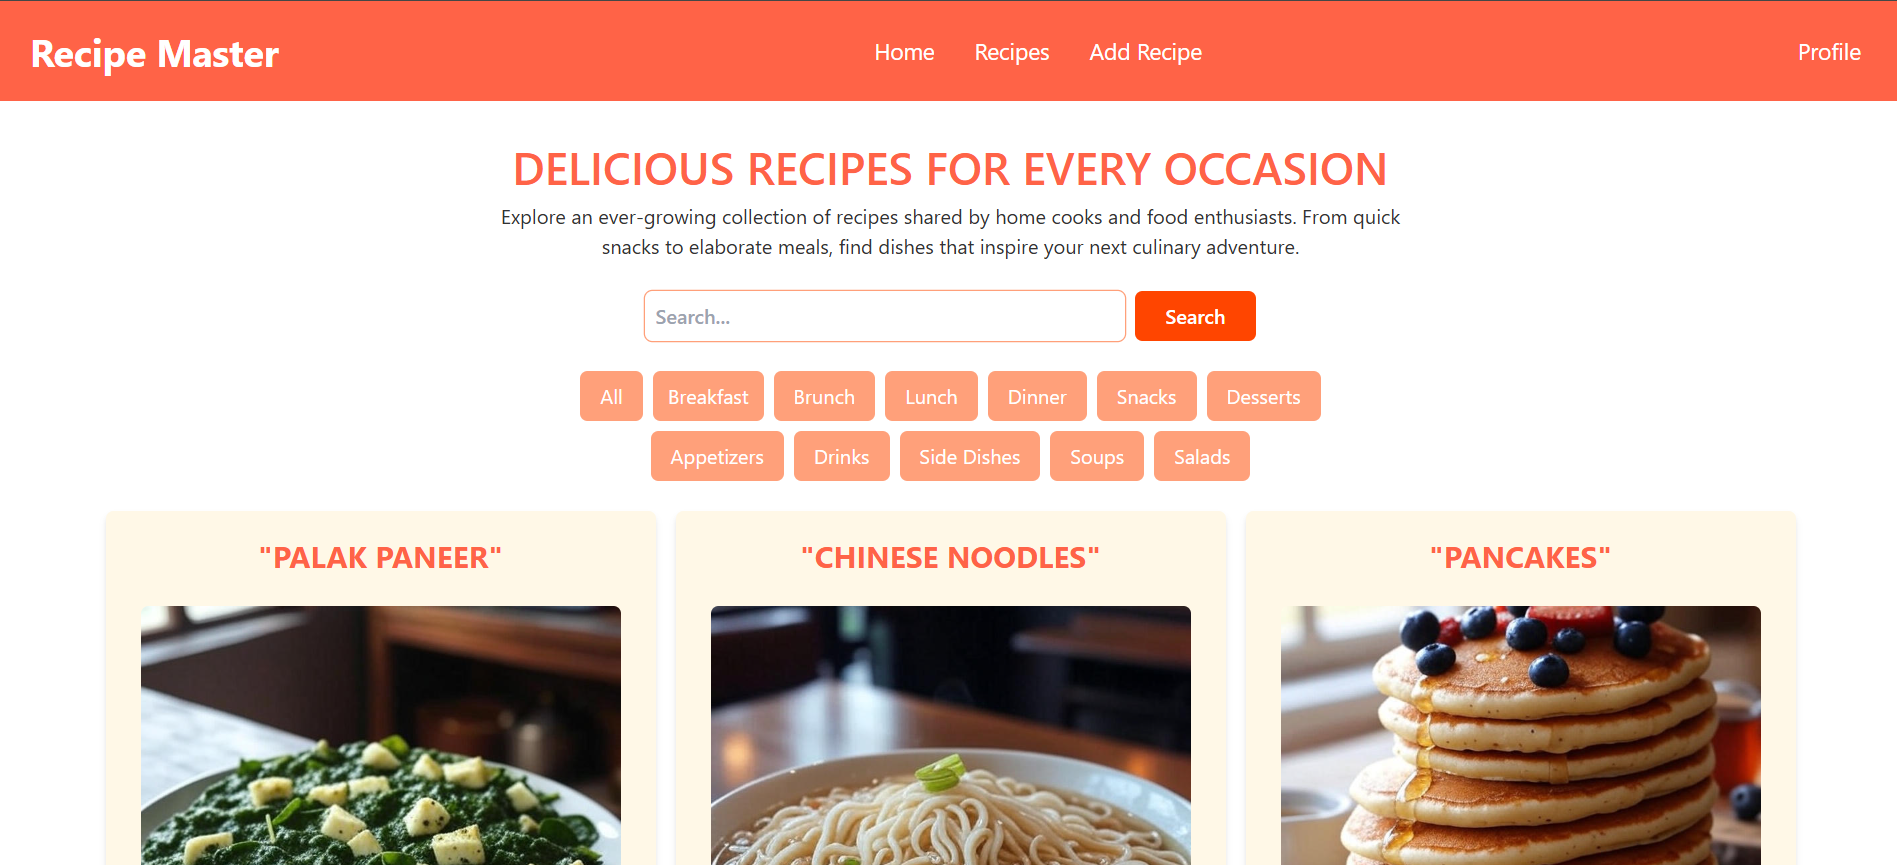
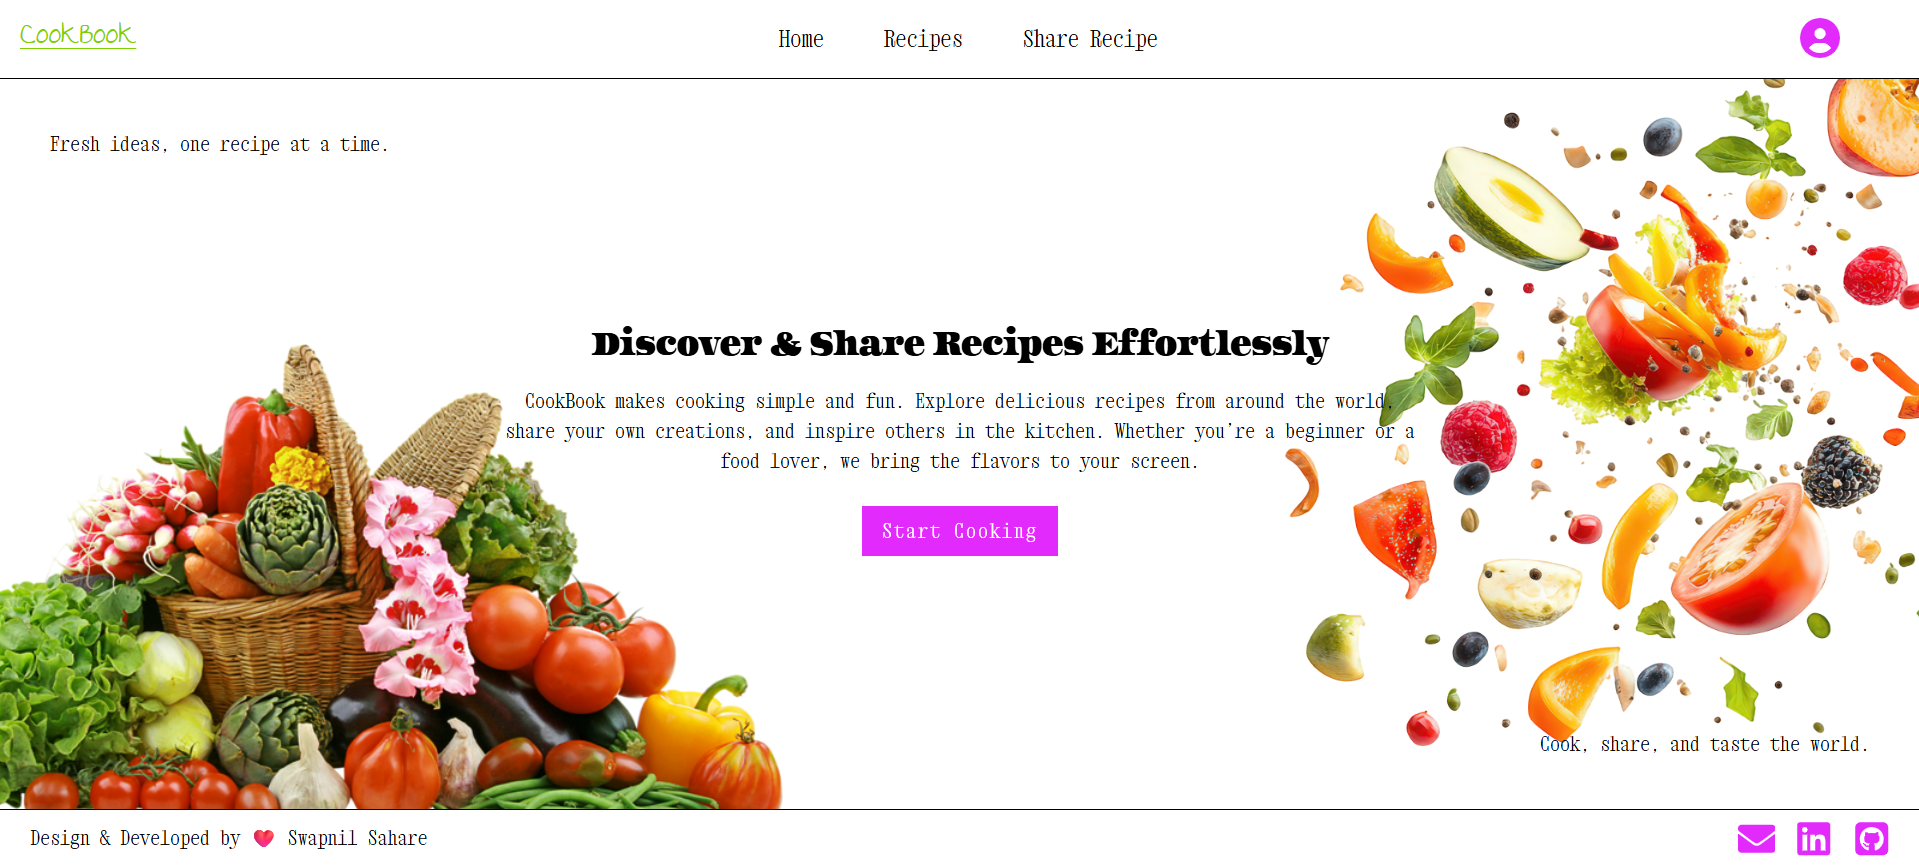
Update project name, image and features

diff --git a/src/pages/Projects.jsx b/src/pages/Projects.jsx
@@ -15,7 +15,8 @@ const Projects = () => {
         "A MERN stack web app for buying, selling, and bidding on artworks in auctions. Includes theme mode support and modern UI with Tailwind CSS.",
       tech: "MongoDB, Express.js, React.js, Node.js, Tailwind CSS, Nodemailer",
       features: [
-        "User authentication with OTP verification.",
+        "Role based user authentication with OTP verification.",
+        "Admin dashboard for managing users, artworks, and auctions.",
         "Profile management with update functionality.",
         "Artwork listing, filtering, and updating.",
         "Auctions with a bidding system.",
@@ -25,7 +26,7 @@ const Projects = () => {
     },
     {
       id: 2,
-      title: "Recipe Finder",
+      title: "CookBook",
       image: recipe,
       github: "https://github.com/SwapnilSahare45/RecipesFinder",
       live: "https://recipes-finder-ruddy.vercel.app",
@@ -36,7 +37,7 @@ const Projects = () => {
         "User authentication with JWT.",
         "Profile management with personal recipes.",
         "Add new recipes with ingredients, instructions, and images.",
-        "Search and find recipes by name.",
+        "Search and find recipes by name and category.",
       ],
     },
     {

diff --git a/src/pages/Skills.jsx b/src/pages/Skills.jsx
@@ -25,8 +25,8 @@ const Skills = () => {
     { name: "Java", icon: <FaJava className="text-red-500 text-4xl" />, level: 62 },
     { name: "React.js", icon: <FaReact className="text-cyan-400 text-4xl" />, level: 77 },
     { name: "Tailwind CSS", icon: <SiTailwindcss className="text-sky-400 text-4xl" />, level: 85 },
-    { name: "Node.js", icon: <FaNodeJs className="text-green-500 text-4xl" />, level: 78 },
-    { name: "Express.js", icon: <SiExpress className="text-gray-300 text-4xl" />, level: 75 },
+    { name: "Node.js", icon: <FaNodeJs className="text-green-500 text-4xl" />, level: 75 },
+    { name: "Express.js", icon: <SiExpress className="text-gray-300 text-4xl" />, level: 72 },
     { name: "MongoDB", icon: <SiMongodb className="text-green-400 text-4xl" />, level: 80 },
     { name: "MySQL", icon: <SiMysql className="text-blue-400 text-4xl" />, level: 60 },
     { name: "GitHub", icon: <FaGithub className="text-white text-4xl" />, level: 85 },
